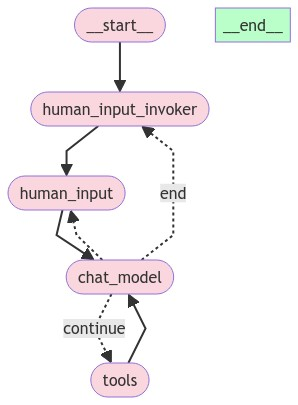
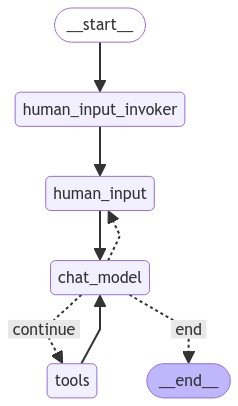
Update chat workflow doc

diff --git a/agent-backend/src/chat/docs/chat_workflow.md b/agent-backend/src/chat/docs/chat_workflow.md
@@ -12,6 +12,5 @@ in tool calling or chat response. This node has following edges:
   - An edge from the `chat_model` to `human_input` to allow for a 
   [human-in-the-loop](https://langchain-ai.github.io/langgraph/concepts/agentic_concepts/#human-in-the-loop) 
   flow.
-  - Finally, once the LLM signals an **END**, go back to the `human_input_invoker`
-  to ask for further user input
+  - Finally, once the LLM signals an **END**, end the session
 - An edge from `tools` node to `chat_model` allows for tools to invoke the LLM.
